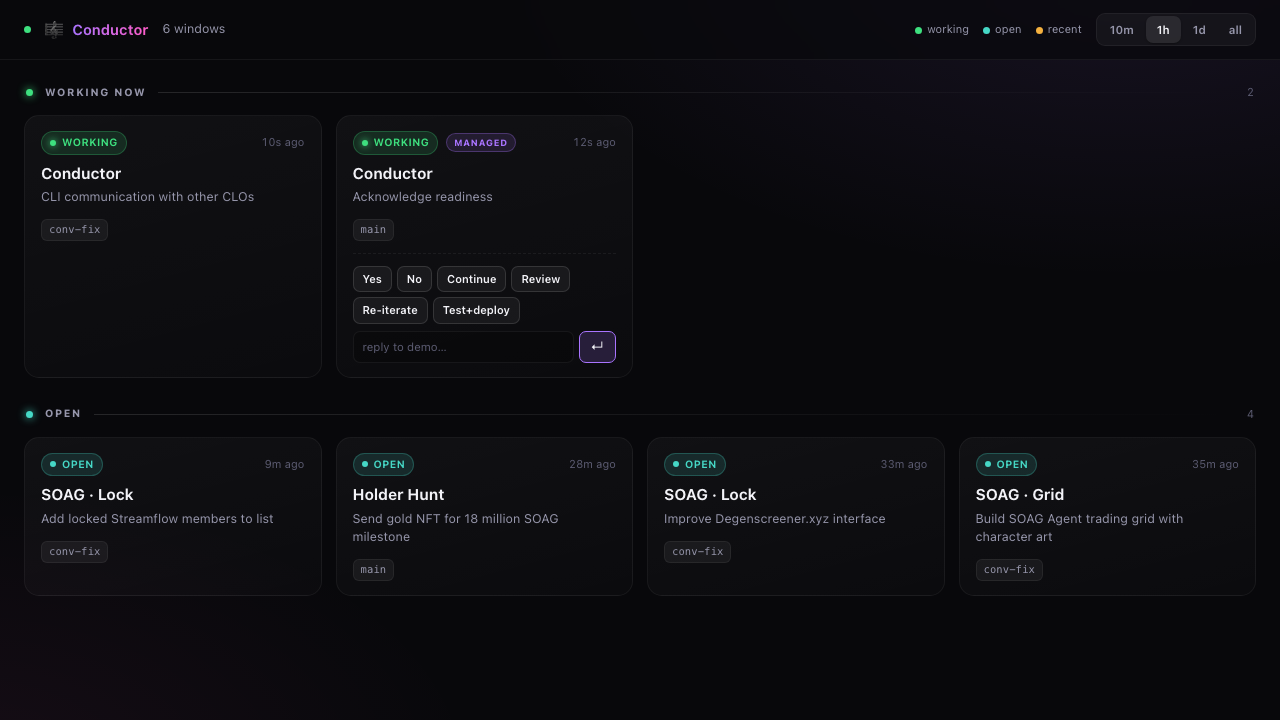
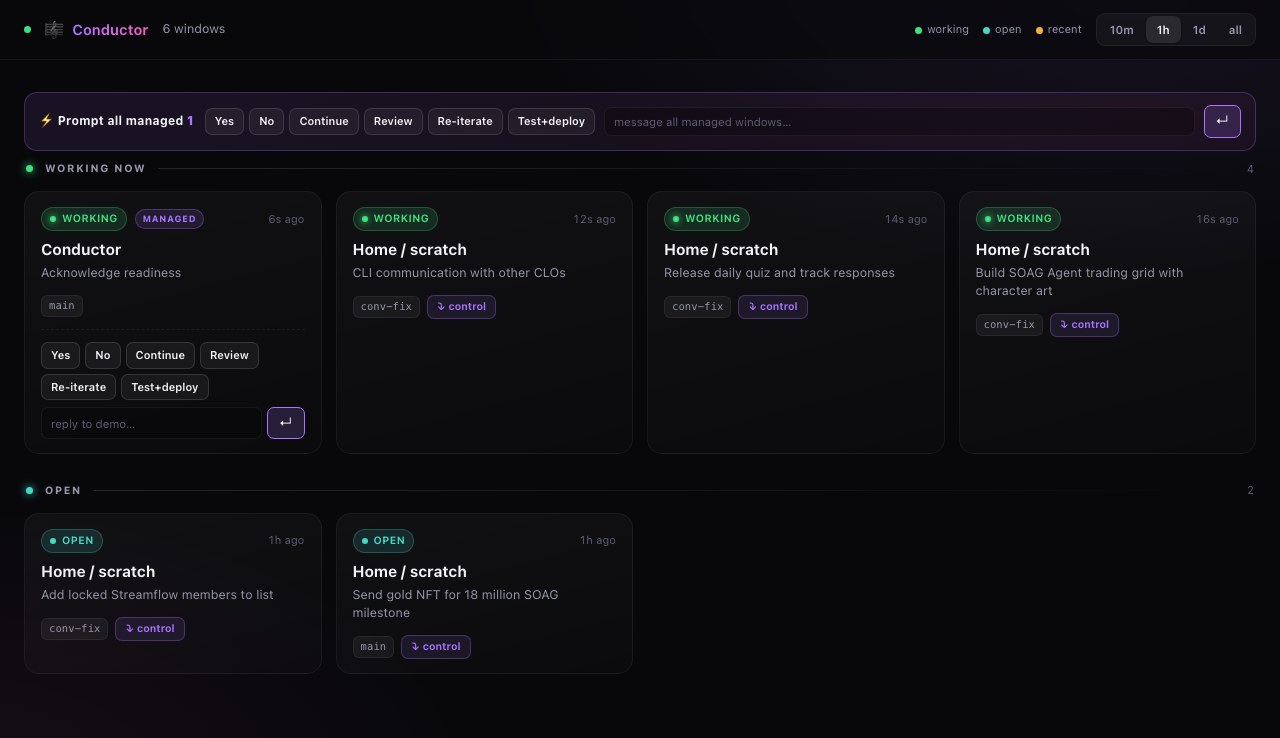
cockpit: broadcast to all managed windows + one-click adopt on read-only cards
Two requested controls:
- "⚡ Prompt all managed" bar (quick buttons + free text) → POST /api/say-all fans the
  message out to every managed window at once.
- "⤵ control" button on each non-managed card → POST /api/adopt forks that session into a
  managed tmux window, after which it gets its own reply bar. Makes any window one click
  from controllable (plain windows can't take input directly — adoption is the bridge).

Server: /api/say-all, /api/adopt; readBody/sendJSON helpers. Cockpit: broadcast bar,
adopt buttons, delegated handlers. Updated screenshot.

diff --git a/server.js b/server.js
@@ -124,6 +124,17 @@ const PAGE = /* html */ `<!doctype html>
   .toast { position:fixed; bottom:22px; left:50%; transform:translateX(-50%); background:#15151f; border:1px solid var(--line2); color:var(--txt); font-size:12.5px; padding:9px 16px; border-radius:10px; box-shadow:0 10px 30px rgba(0,0,0,.5); opacity:0; transition:opacity .2s; pointer-events:none; z-index:80; }
   .toast.show { opacity:1; }
 
+  /* broadcast bar */
+  .bcast { display:flex; align-items:center; gap:9px; flex-wrap:wrap; margin:18px 0 4px; padding:12px 14px;
+    background:linear-gradient(120deg,rgba(169,116,255,.10),rgba(255,92,200,.06)); border:1px solid rgba(169,116,255,.28); border-radius:13px; }
+  .bcast .blabel { font-size:12px; font-weight:700; letter-spacing:.3px; color:var(--txt); margin-right:2px; }
+  .bcast .blabel b { color:var(--accent); }
+  .bcast .bbtns { display:flex; flex-wrap:wrap; gap:5px; }
+  .bcast .qin { flex:1; min-width:160px; }
+  /* adopt ("control") button on read-only cards */
+  .badopt { font:inherit; font-size:10.5px; font-weight:650; color:var(--accent); background:rgba(169,116,255,.1); border:1px solid rgba(169,116,255,.3); border-radius:7px; padding:3px 9px; cursor:pointer; transition:.12s; }
+  .badopt:hover { background:rgba(169,116,255,.22); }
+
   .card.active { --c:var(--active); } .card.open { --c:var(--open); }
   .card.recent { --c:var(--recent); } .card.idle { --c:var(--idle); }
 
@@ -166,7 +177,16 @@ const PAGE = /* html */ `<!doctype html>
     <button data-m="all">all</button>
   </div>
 </header>
-<main><div id="board"></div><div class="empty" id="empty" style="display:none"></div></main>
+<main>
+  <div class="bcast" id="bcast" style="display:none">
+    <span class="blabel">⚡ Prompt all managed <b id="bcount">0</b></span>
+    <div class="bbtns" id="bbtns"></div>
+    <input class="qin" id="binput" placeholder="message all managed windows…">
+    <button class="qsend" id="bsend">↵</button>
+  </div>
+  <div id="board"></div>
+  <div class="empty" id="empty" style="display:none"></div>
+</main>
 
 <div class="scrim" id="scrim"><div class="modal" id="modal"></div></div>
 <div class="toast" id="toast"></div>
@@ -223,7 +243,7 @@ function cardHTML(s) {
       </div>
       <div class="label">\${esc(s.label)}</div>
       <div class="task">\${esc(s.task || s.intent || '—')}</div>
-      <div class="cfoot">\${s.gitBranch ? '<span class="chip">'+esc(s.gitBranch)+'</span>' : ''}</div>
+      <div class="cfoot">\${s.gitBranch ? '<span class="chip">'+esc(s.gitBranch)+'</span>' : ''}\${s.managed ? '' : '<button class="badopt" data-adopt="'+s.sessionId+'">⤵ control</button>'}</div>
       \${s.managed ? ctrlHTML(s) : ''}
     </div>\`;
 }
@@ -242,11 +262,32 @@ async function reply(label, text) {
     toast(j.ok ? '→ sent “'+text+'” to '+label : 'send failed: '+(j.error||'?'));
   } catch(e) { toast('send failed'); }
 }
+async function replyAll(text) {
+  if (!text || !text.trim()) return;
+  try {
+    const r = await fetch('/api/say-all', { method:'POST', headers:{'content-type':'application/json'}, body:JSON.stringify({text}) });
+    const j = await r.json();
+    toast(j.ok ? '⚡ sent “'+text+'” to '+j.sent+' window'+(j.sent===1?'':'s') : 'broadcast failed');
+  } catch(e) { toast('broadcast failed'); }
+}
+async function adoptWin(sessionId) {
+  toast('adopting… opening a managed copy in tmux');
+  try {
+    const r = await fetch('/api/adopt', { method:'POST', headers:{'content-type':'application/json'}, body:JSON.stringify({session:sessionId}) });
+    const j = await r.json();
+    toast(j.ok ? '✓ adopted as “'+j.label+'” — answer its trust prompt (reply 1), then close the old tab' : 'adopt failed: '+(j.error||'?'));
+  } catch(e) { toast('adopt failed'); }
+}
+// build broadcast quick-buttons once
+document.getElementById('bbtns').innerHTML = QUICK.map(q => '<button class="qb" data-all="'+esc(q[1])+'">'+q[0]+'</button>').join('');
 
 function render() {
   const board = document.getElementById('board');
   const empty = document.getElementById('empty');
   document.getElementById('count').textContent = DATA.length ? DATA.length+' window'+(DATA.length>1?'s':'') : '';
+  const mc = DATA.filter(s=>s.managed).length;
+  document.getElementById('bcount').textContent = mc;
+  document.getElementById('bcast').style.display = mc ? 'flex' : 'none';
   if (!DATA.length) {
     board.innerHTML=''; empty.style.display='block';
     empty.textContent = 'No sessions in this window. Try a wider range →';
@@ -301,9 +342,21 @@ boardEl.addEventListener('click', e=>{
     else reply(label, qb.dataset.text);
     return;
   }
+  const ab = e.target.closest('.badopt');
+  if (ab) { e.stopPropagation(); adoptWin(ab.dataset.adopt); return; }
   if (e.target.closest('.ctrl')) return;       // clicks in the reply area shouldn't open the modal
   const card = e.target.closest('.card');
   if (card) openCard(card.dataset.id);
+});
+// broadcast bar
+const bcastEl = document.getElementById('bcast');
+bcastEl.addEventListener('click', e=>{
+  const b = e.target.closest('button'); if (!b) return;
+  if (b.id === 'bsend') { const i=document.getElementById('binput'); replyAll(i.value); i.value=''; }
+  else if (b.dataset.all != null) replyAll(b.dataset.all);
+});
+document.getElementById('binput').addEventListener('keydown', e=>{
+  if (e.key === 'Enter') { replyAll(e.target.value); e.target.value=''; }
 });
 boardEl.addEventListener('keydown', e=>{
   if (e.target.classList && e.target.classList.contains('qin') && e.key==='Enter') {
@@ -318,6 +371,16 @@ setInterval(load, 4000);
 </script>
 </body>
 </html>`;
+
+function readBody(req, cb) {
+  let b = '';
+  req.on('data', (c) => { b += c; if (b.length > 8192) req.destroy(); });
+  req.on('end', () => { let p; try { p = JSON.parse(b || '{}'); } catch { p = {}; } cb(p); });
+}
+function sendJSON(res, code, obj) {
+  res.writeHead(code, { 'content-type': 'application/json' });
+  res.end(JSON.stringify(obj));
+}
 
 async function handle(req, res) {
   const url = new URL(req.url, 'http://localhost');
@@ -341,13 +404,38 @@ async function handle(req, res) {
   }
 
   if (url.pathname === '/api/say' && req.method === 'POST') {
-    let body = '';
-    req.on('data', (c) => { body += c; if (body.length > 4096) req.destroy(); });
-    req.on('end', () => {
-      let p; try { p = JSON.parse(body || '{}'); } catch { p = {}; }
-      const res2 = p.key ? manage.key(p.label, p.key) : manage.say(p.label, p.text || '');
-      res.writeHead(res2.ok ? 200 : 400, { 'content-type': 'application/json' });
-      res.end(JSON.stringify(res2));
+    readBody(req, (p) => {
+      const r = p.key ? manage.key(p.label, p.key) : manage.say(p.label, p.text || '');
+      sendJSON(res, r.ok ? 200 : 400, r);
+    });
+    return;
+  }
+
+  // Broadcast to every managed window at once.
+  if (url.pathname === '/api/say-all' && req.method === 'POST') {
+    readBody(req, (p) => {
+      const ws = manage.listManaged();
+      let sent = 0;
+      for (const w of ws) {
+        const r = p.key ? manage.key(w.label, p.key) : manage.say(w.label, p.text || '');
+        if (r.ok) sent++;
+      }
+      sendJSON(res, 200, { ok: true, sent, total: ws.length });
+    });
+    return;
+  }
+
+  // Bring an existing (read-only) window under management by forking it into tmux.
+  if (url.pathname === '/api/adopt' && req.method === 'POST') {
+    readBody(req, async (p) => {
+      try {
+        const rows = await collectSessions({ minutes: 4320 });
+        const s = rows.find((r) => r.sessionId === p.session || r.shortId === p.session);
+        if (!s) return sendJSON(res, 400, { ok: false, error: 'session not found' });
+        const label = manage.sanitize(s.label) || s.shortId;
+        const r = manage.adopt(label, s.sessionId, s.cwd);
+        sendJSON(res, r.ok ? 200 : 400, r);
+      } catch (e) { sendJSON(res, 500, { ok: false, error: e.message }); }
     });
     return;
   }